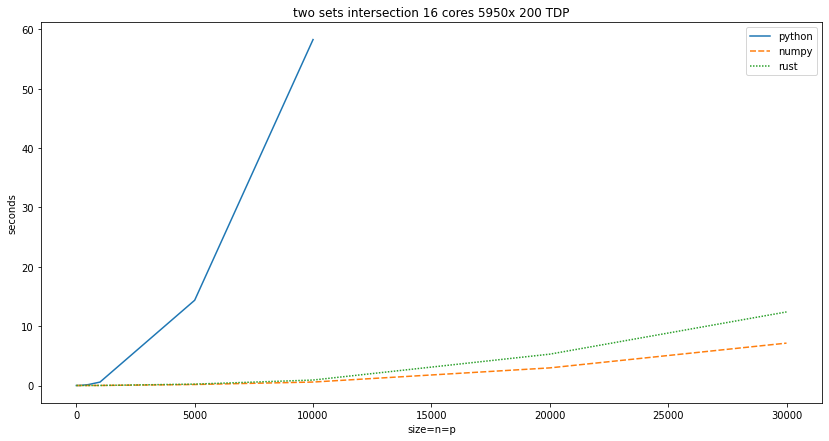
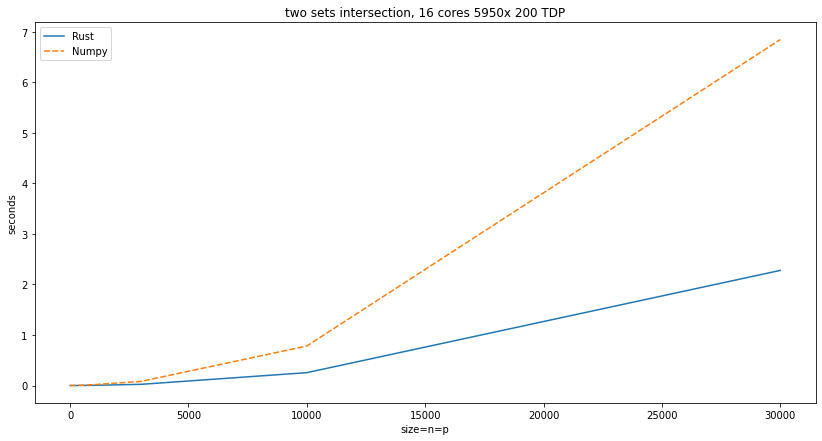
update benchmark

diff --git a/benchmark.py b/benchmark.py
@@ -1,21 +1,17 @@
 from main import main, get_parser
 
-#size = [1, 5, 10, 20, 50, 100, 200, 500, 1000, 5000, 10000, 20000, 30000]
-size = [1, 5, 10, 20, 50, 100, 200, 500, 1000]
-python = []
-numpy = []
+size = []
 rust = []
+numpy = []
 
-for s in size:
-    for engine in ['python', 'rust', 'numpy']:
-        if engine == "python" and s > 10000: # lists aren't memory efficient
-            python.append(0)
-            continue
-        config = f"--seed 55 --display False --engine {engine} -n {s} -p {s}"            
-        args = get_parser().parse_args(config.split())
-        locals()[engine].append(main(args))
-
-print("size   \t python   \t rust   \t numpy")
-for s, py, rst, np in zip(size, python, rust, numpy):
-    print(f"{s} \t {py:.4f} \t {rst:.4f} \t {np:.4f}")
-
+for magnitude in range(5):
+    for factor in [1, 3]:
+        s = factor*(10**magnitude)
+        size.append(s)
+        for engine in ['rust', 'numpy']:
+            config = f"--seed 55 --no-display --engine {engine} -n {s} -p {s}"          
+            args = get_parser().parse_args(config.split())
+            locals()[engine].append(main(args))
+print("size   \t rust   \t numpy")
+for s, rst, np in zip(size, rust, numpy):
+    print(f"{s} \t {rst:.4f} \t {np:.4f}")
